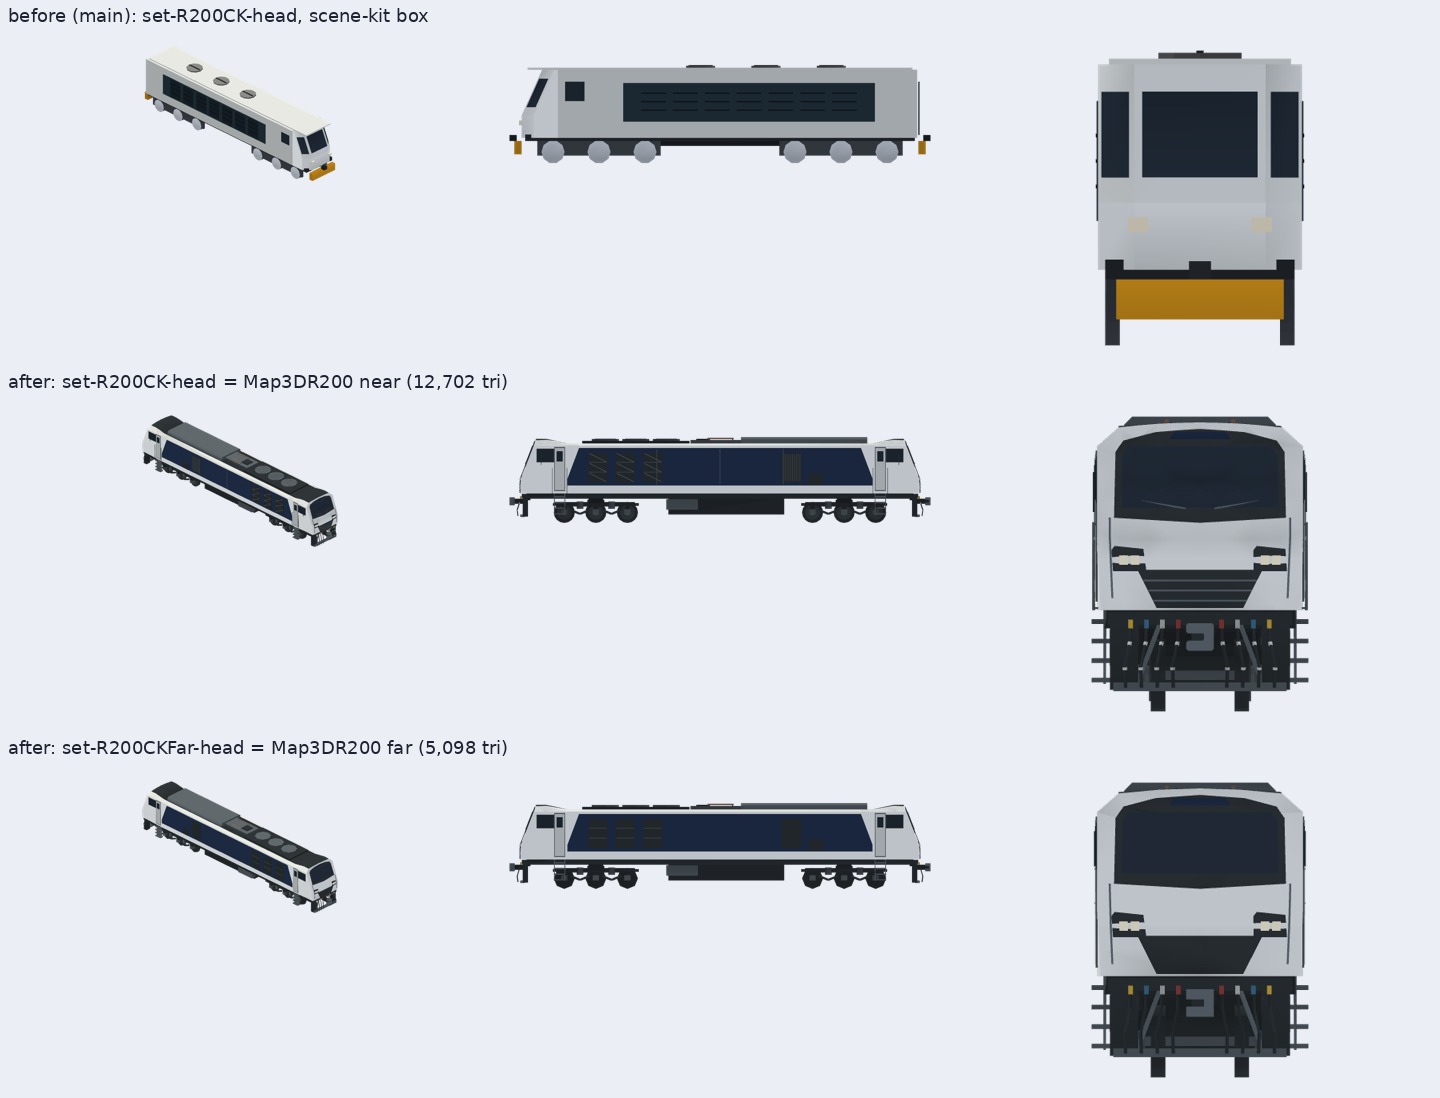
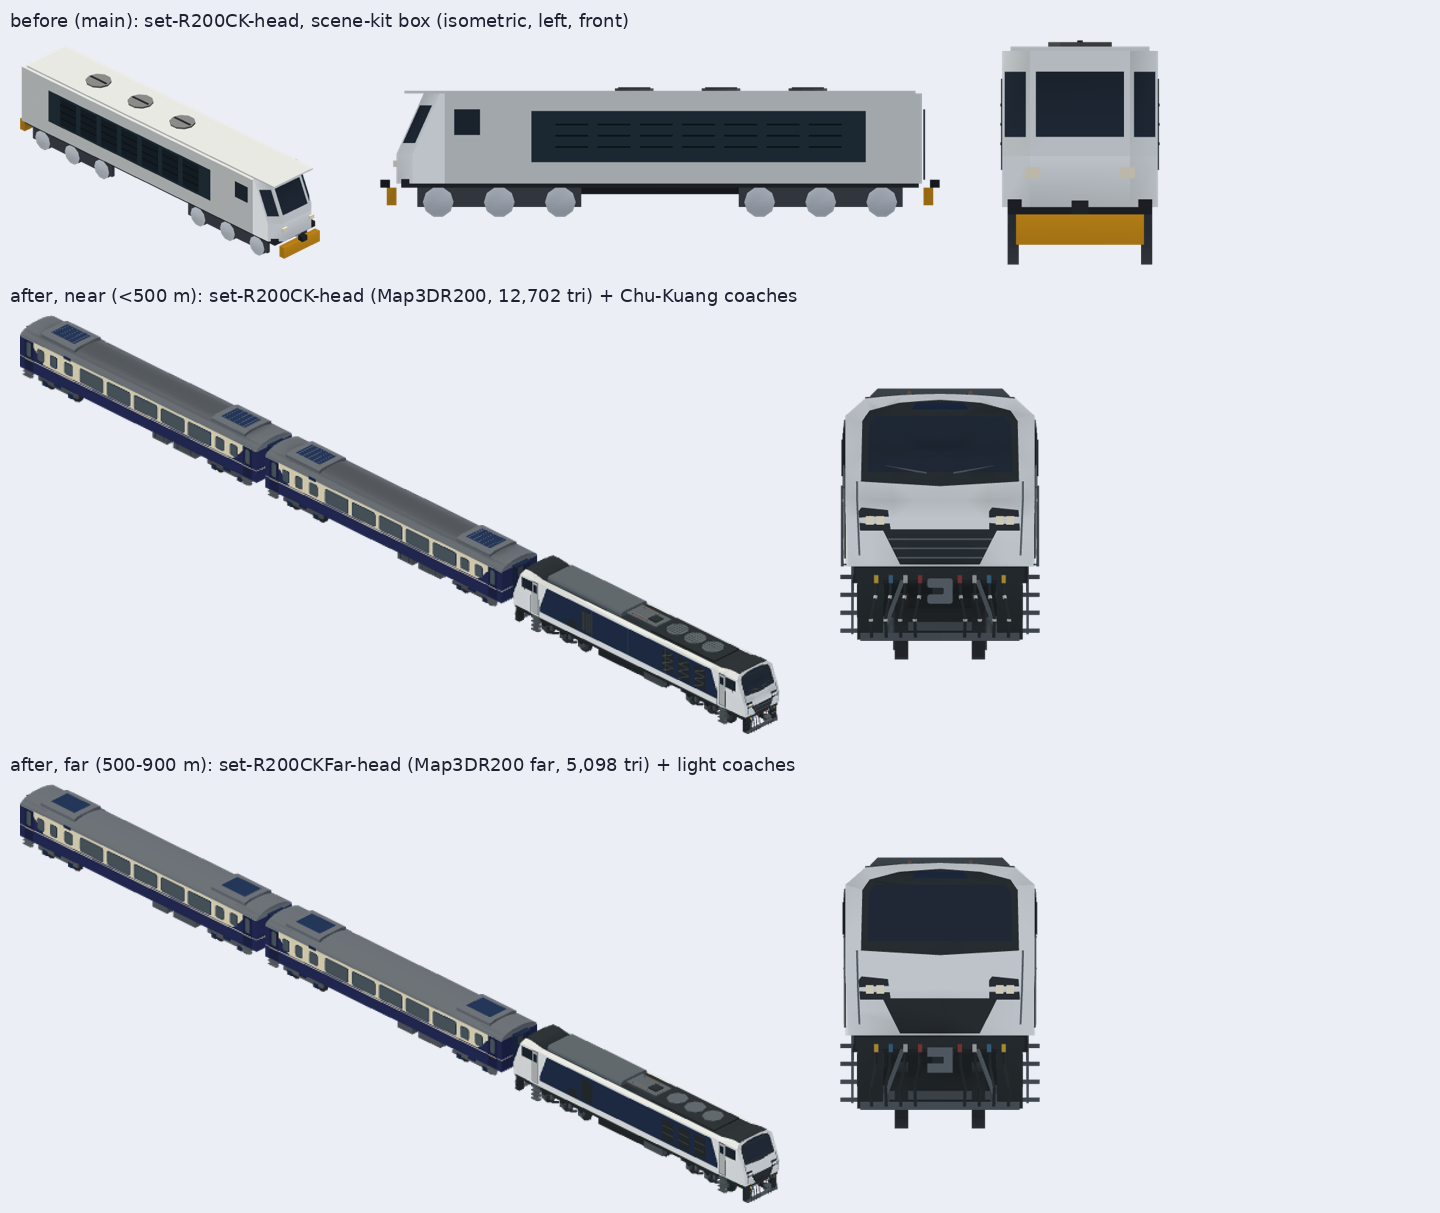
Decision 529: overview with the R200 at the head of the Chu-Kuang coaches, near and far
Claude-Session: https://claude.ai/code/session_01YGNNumMoJMjafUzBC43vWz

diff --git a/docs/decisions/529.md b/docs/decisions/529.md
@@ -28,7 +28,7 @@
 
 ![改前與改後](../art/tra-r200/operation-overview.png)
 
-`tools/train-models/render.mjs` 的日光預覽（WebGL，遊戲的模型光，不是 Metal）：上排 main 的舊 R200，中排近景，下排遠景。完整七向與 viewer 是同一個模型，在 `a91453/railway-assets-private` #37 的 `game-art-previews/docs/art/tra-r200/revision-2/`。
+`tools/train-models/render.mjs` 的日光預覽（WebGL，遊戲的模型光，不是 Metal）：上排 main 的舊 R200；中排近景（500 m 內）的 R200 接兩節莒光號客車與正面；下排遠景（500–900 m）的 R200 接兩節遠景客車與正面。編組用 `assemble.mjs` 擺（頭車 0、客車 −20.005 m、−40.005 m）。完整七向與 viewer 是同一個模型，在 `a91453/railway-assets-private` #37 的 `game-art-previews/docs/art/tra-r200/revision-2/`。
 
 ## 五個角度
 
